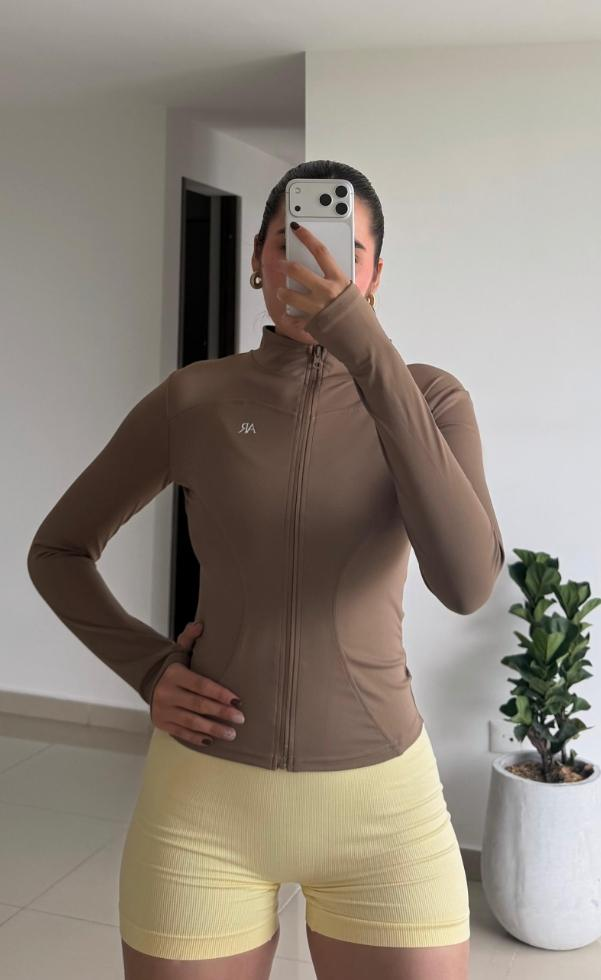
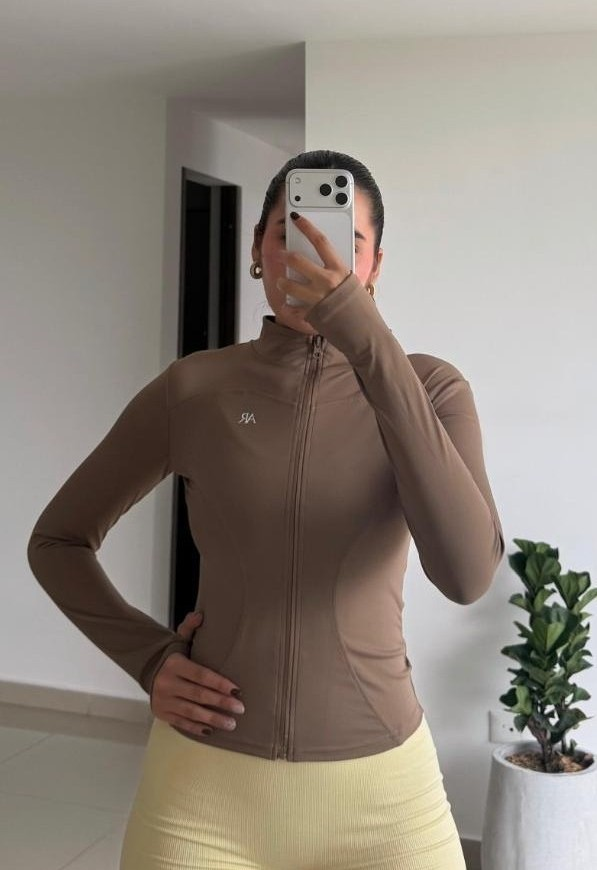
agregamos cahaqueta cafe

diff --git a/src/Components/Assets/all_product.js b/src/Components/Assets/all_product.js
@@ -566,6 +566,25 @@ let all_product = [
     },
   },
   {
+    id: 311,
+    name: "CHAQUETA CIGNUS - TONO CAFÉ",
+    category: "bodysytops",
+    description: "Tela completamente acanalada",
+    image: chaquetacafe1,
+    image2: chaquetacafe2,
+    image3: chaquetacafe3,
+    image4: chaquetacafe4,
+    new_price: 65000,
+    old_price: 80000,
+    sizes: {
+      XS: false,
+      S: true,
+      M: true,
+      L: false,
+      XL: false,
+    },
+  },
+  {
     id: 310,
     name: "CHAQUETA CIGNUS - TONO ROSA",
     category: "bodysytops",